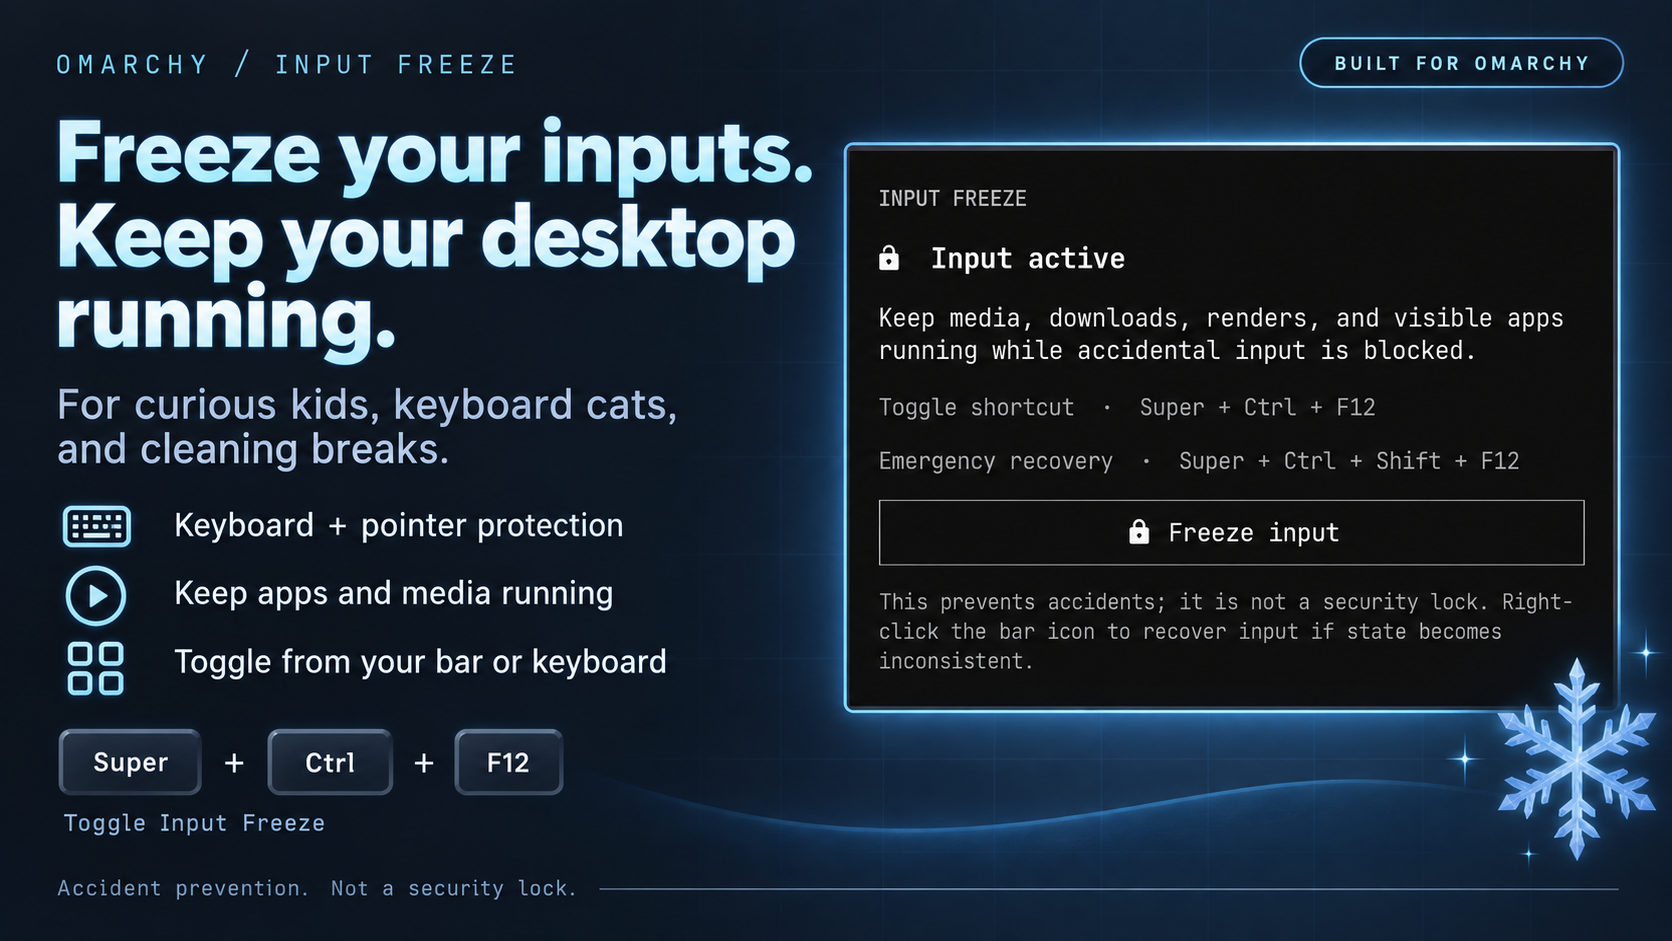
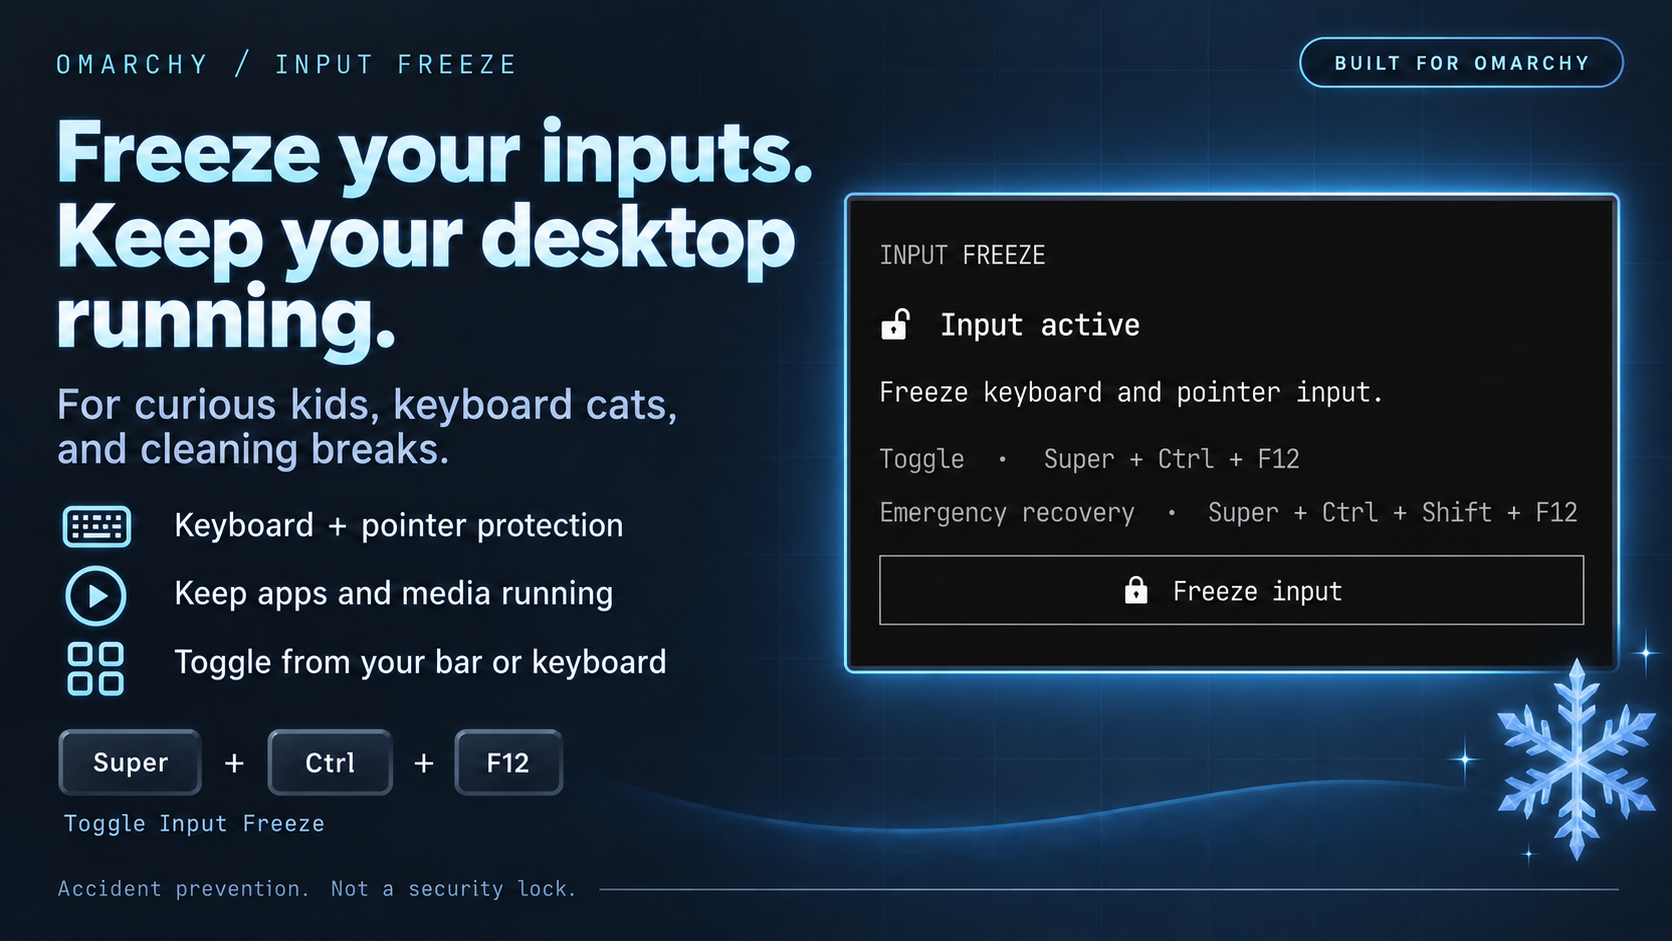
docs: refresh showcase for v0.1.3 panel

diff --git a/README.md b/README.md
@@ -4,7 +4,7 @@
 
 ![Input Freeze: freeze your inputs while your desktop keeps running. Plugin showcase and toggle shortcut.](preview.png)
 
-*Showcase artwork depicts the v0.1.2 panel. v0.1.3 uses shorter panel text.*
+*Showcase artwork reflects the simplified v0.1.3 panel.*
 
 Input Freeze temporarily blocks keyboard and pointer input without locking your
 Omarchy session. Media playback, downloads, renders, dashboards, and other
